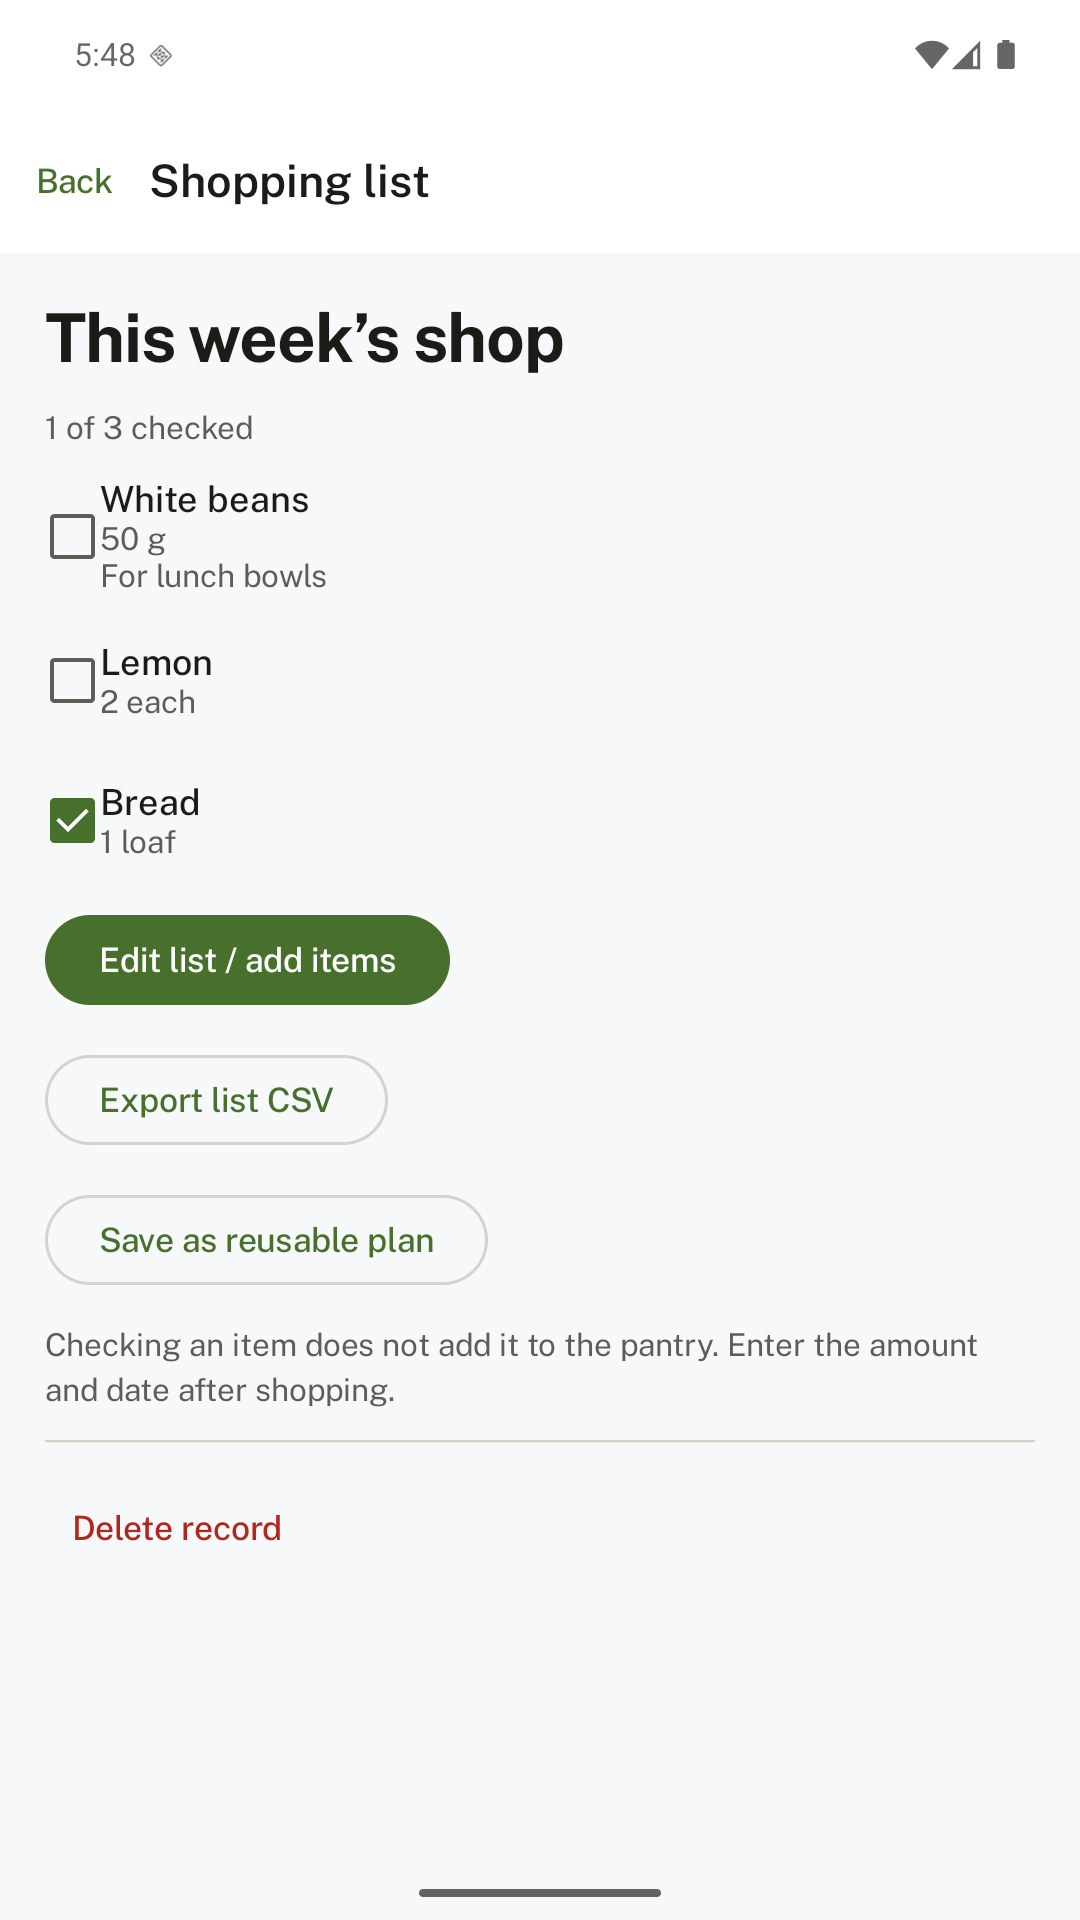
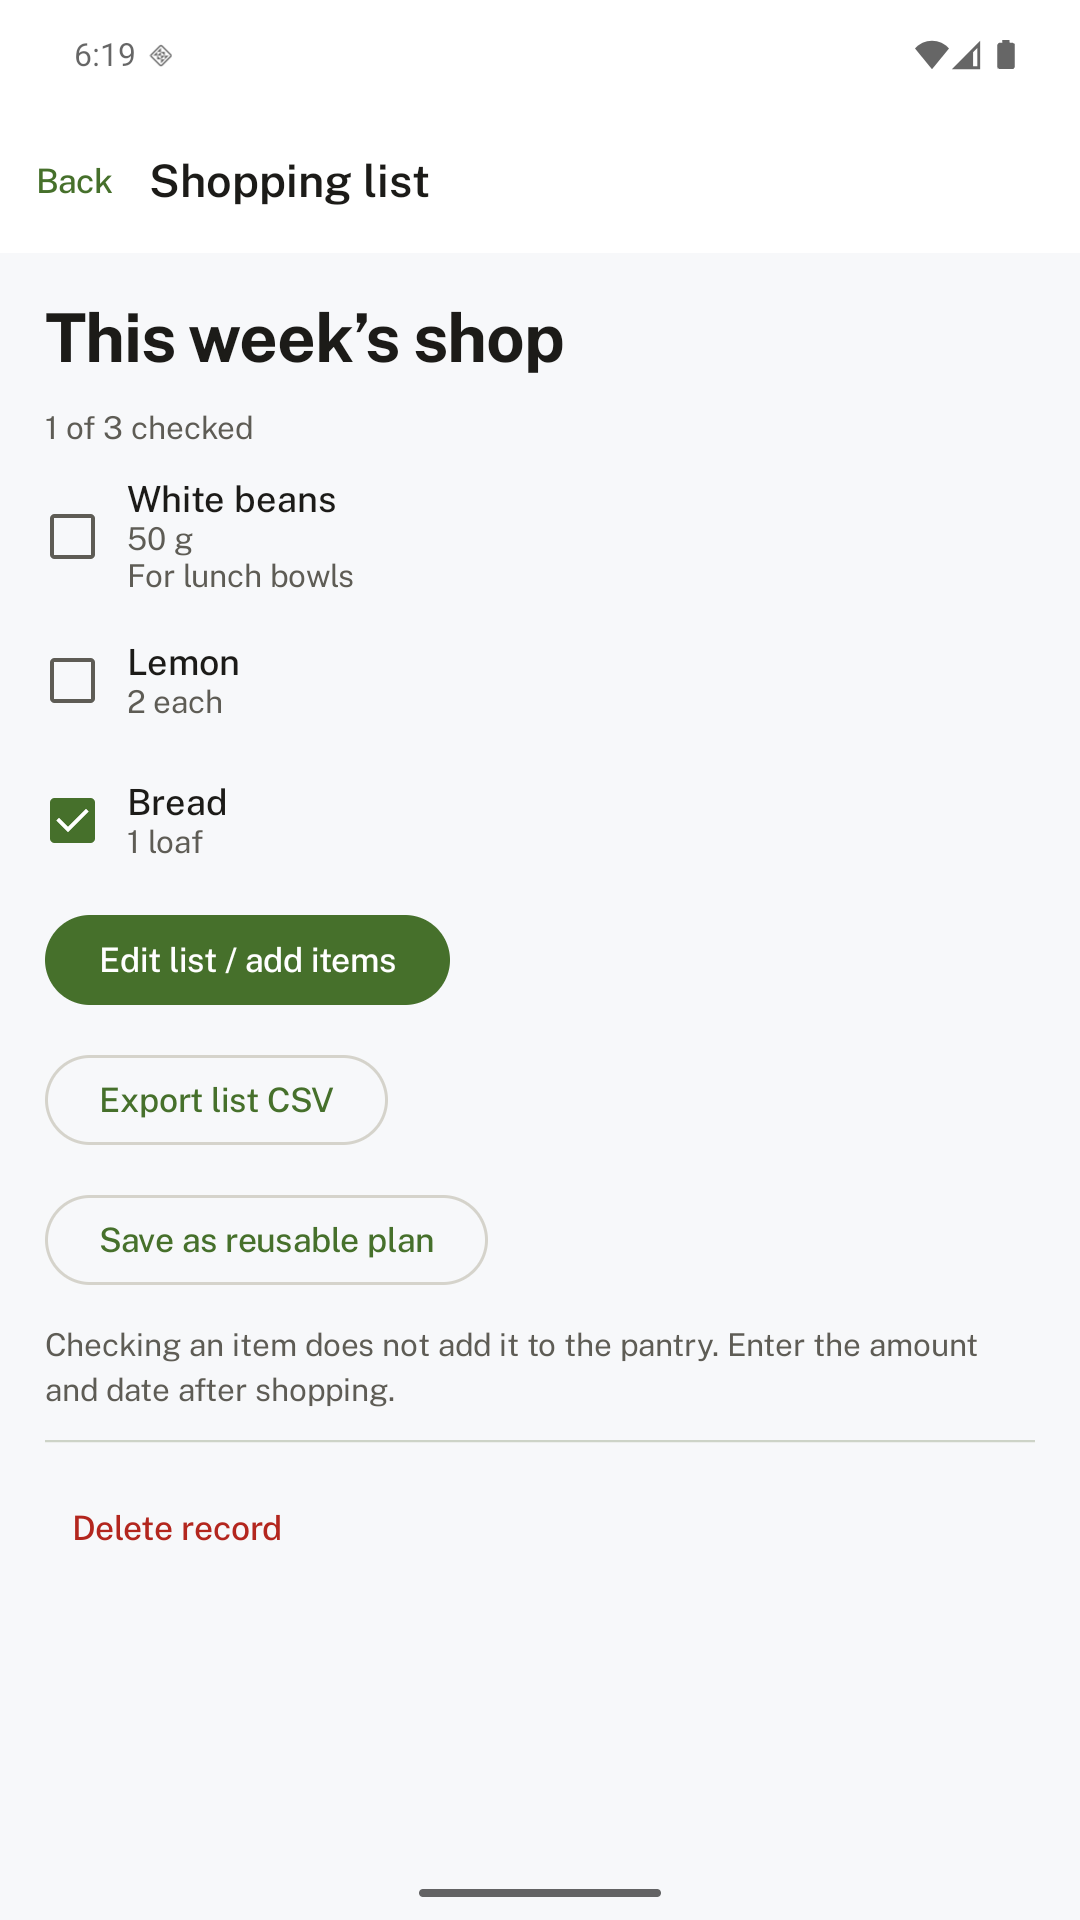
Improve screenshot panel semantics and refresh shopping capture

diff --git a/pantryturn/style.css b/pantryturn/style.css
@@ -3,6 +3,6 @@
 @font-face{font-family:PublicSans;src:url('fonts/brand.ttf') format('truetype');font-weight:400;font-display:swap}@font-face{font-family:PublicSans;src:url('fonts/brand_semibold.ttf') format('truetype');font-weight:600;font-display:swap}@font-face{font-family:PublicSans;src:url('fonts/brand_bold.ttf') format('truetype');font-weight:700;font-display:swap}
 :root{color-scheme:light;--bg:#f7f8f5;--surface:#eef2e9;--text:#20261d;--muted:#56614e;--accent:#426c27;--on-accent:#f8faf5;--line:#ccd5c5;--selected:#deeace}html[data-theme=dark]{color-scheme:dark;--bg:#171d16;--surface:#222c1e;--text:#edf1e9;--muted:#b5c2aa;--accent:#acd38f;--on-accent:#1e3511;--line:#3f4c36;--selected:#34462a}@media(prefers-color-scheme:dark){html:not([data-theme=light]){color-scheme:dark;--bg:#171d16;--surface:#222c1e;--text:#edf1e9;--muted:#b5c2aa;--accent:#acd38f;--on-accent:#1e3511;--line:#3f4c36;--selected:#34462a}}
 *{box-sizing:border-box}html{scroll-padding-top:24px}body{margin:0;background:var(--bg);color:var(--text);font-family:PublicSans,system-ui,sans-serif;line-height:1.6}button,a,input{font:inherit}a{color:var(--accent);text-underline-offset:5px}button{cursor:pointer}button:focus-visible,a:focus-visible,summary:focus-visible{outline:3px solid var(--accent);outline-offset:5px}img{display:block;max-width:100%;height:auto}.wrap{width:min(1280px,calc(100% - 64px));margin-inline:auto}.site-header{min-height:80px;display:flex;align-items:center;gap:30px}.brand{display:inline-flex;align-items:center;gap:11px;color:var(--text);font-size:21px;font-weight:700;letter-spacing:-.6px;text-decoration:none}.brand img{border-radius:9px}.site-header nav{display:flex;gap:28px;margin-left:auto}.site-header nav a{font-size:14px;color:var(--text);text-decoration:none}.theme{background:transparent;border:1px solid var(--line);border-radius:999px;color:var(--text);padding:9px 14px;font-size:12px;white-space:nowrap}.skip{position:absolute;left:20px;top:-100px;padding:12px 20px;z-index:10;background:var(--bg)}.skip:focus{top:12px}
-h1,h2,h3,p,figure{margin:0}h1,h2,h3{font-weight:600;letter-spacing:-1.7px;line-height:1.1}h1{font-size:clamp(38px,4.4vw,61px);max-width:11ch}h2{font-size:clamp(30px,3.4vw,46px);max-width:20ch}h3{font-size:23px;letter-spacing:-.6px}p{color:var(--muted);font-size:17px;max-width:60ch}.hero{display:grid;grid-template-columns:.9fr 1.2fr;gap:56px;align-items:center;padding-block:38px 55px}.hero-copy{display:grid;gap:24px;justify-items:start}.hero-copy p{font-size:18px;max-width:37ch}.hero-photo{width:100%;aspect-ratio:1.38;object-fit:cover;border-radius:16px}.button{display:inline-flex;align-items:center;justify-content:center;min-height:50px;padding:12px 23px;border-radius:999px;background:var(--accent);color:var(--on-accent);font-weight:600;text-decoration:none;white-space:nowrap;transition:transform .2s}.button:hover{transform:translateY(-2px)}.button:active{transform:scale(.98)}section:not(.hero){padding-block:100px}.intro{border-top:1px solid var(--line)}.intro>p{margin-top:24px;font-size:20px;max-width:51ch}.intro-points{display:grid;grid-template-columns:1.1fr 1fr 1fr;gap:48px;margin-top:50px}.intro-points p{font-size:15px}.intro-points strong{display:block;color:var(--text);margin-bottom:10px}.walkthrough{display:grid;grid-template-columns:1fr 1fr;gap:100px;align-items:start}.walkthrough-copy>p,.planning>div>p:not(.eyebrow),.included>p{margin-top:24px}.screen-tabs{display:grid;margin-top:32px;gap:4px}.screen-tabs button{background:transparent;color:var(--text);border:0;border-left:3px solid transparent;text-align:left;padding:20px 24px;transition:background .2s}.screen-tabs button[aria-selected=true]{border-left-color:var(--accent);background:var(--surface)}.screen-tabs strong{display:block;font-size:19px;font-weight:600;margin-bottom:6px}.screen-tabs span{display:block;color:var(--muted);max-width:32ch;font-size:15px}.screen-stage{background:var(--surface);border-radius:16px;padding:32px;display:grid;justify-items:center;gap:24px}.screen-stage img{width:280px;border:1px solid var(--line);border-radius:16px;aspect-ratio:9/16}.screen-stage figcaption,.planning figcaption{font-size:12px;color:var(--muted);text-align:center}.planning{display:grid;grid-template-columns:.9fr 1.15fr;gap:80px;align-items:center}.eyebrow{font-size:12px;text-transform:uppercase;letter-spacing:1px;color:var(--accent);margin-bottom:20px}.small{font-size:13px!important;line-height:1.65}.planning-pair{display:grid;grid-template-columns:1fr 1fr;gap:24px}.planning-pair figure:last-child{margin-top:74px}.planning-pair img{border-radius:16px;border:1px solid var(--line);aspect-ratio:9/16}.planning-pair figcaption{margin-top:16px}.included{border-top:1px solid var(--line)}.price-columns{display:grid;grid-template-columns:1fr 1fr;gap:80px;margin-top:50px}.price-columns article{padding:32px 0}.price-columns .unlock{border-left:1px solid var(--line);padding-left:70px}.price{font-size:48px;letter-spacing:-2px;color:var(--accent);line-height:1.2;margin-top:20px}.price span{font-size:15px;letter-spacing:0;color:var(--muted)}ul{padding-left:20px;color:var(--muted);font-size:16px;margin:28px 0}li{padding:5px 0}.currencies{display:flex;gap:10px;margin-top:16px}.currencies button{min-height:40px;min-width:52px;background:transparent;border:1px solid var(--line);border-radius:999px;color:var(--text);padding:6px 12px;font-size:13px}.currencies button[aria-pressed=true]{background:var(--selected);border-color:var(--accent)}.release-status{display:inline-block;margin-top:20px!important;background:var(--surface);padding:14px 22px;border-radius:12px;color:var(--text)}.questions{display:grid;grid-template-columns:.8fr 1.2fr;column-gap:80px}.questions h2{grid-row:span 4}.questions details{border-bottom:1px solid var(--line);padding:20px 0}.questions summary{font-size:18px;font-weight:600;cursor:pointer}.questions details p{font-size:15px;margin-top:18px}footer{border-top:1px solid var(--line);display:flex;align-items:center;gap:28px;flex-wrap:wrap;padding-block:40px 50px}footer p{font-size:12px}footer>div{display:flex;gap:24px;margin-left:auto}footer a{font-size:13px}
+h1,h2,h3,p,figure{margin:0}h1,h2,h3{font-weight:600;letter-spacing:-1.7px;line-height:1.1}h1{font-size:clamp(38px,4.4vw,61px);max-width:11ch}h2{font-size:clamp(30px,3.4vw,46px);max-width:20ch}h3{font-size:23px;letter-spacing:-.6px}p{color:var(--muted);font-size:17px;max-width:60ch}.hero{display:grid;grid-template-columns:.9fr 1.2fr;gap:56px;align-items:center;padding-block:38px 55px}.hero-copy{display:grid;gap:24px;justify-items:start}.hero-copy p{font-size:18px;max-width:37ch}.hero-photo{width:100%;aspect-ratio:1.38;object-fit:cover;border-radius:16px}.button{display:inline-flex;align-items:center;justify-content:center;min-height:50px;padding:12px 23px;border-radius:999px;background:var(--accent);color:var(--on-accent);font-weight:600;text-decoration:none;white-space:nowrap;transition:transform .2s}.button:hover{transform:translateY(-2px)}.button:active{transform:scale(.98)}section:not(.hero){padding-block:100px}.intro{border-top:1px solid var(--line)}.intro>p{margin-top:24px;font-size:20px;max-width:51ch}.intro-points{display:grid;grid-template-columns:1.1fr 1fr 1fr;gap:48px;margin-top:50px}.intro-points p{font-size:15px}.intro-points strong{display:block;color:var(--text);margin-bottom:10px}.walkthrough{display:grid;grid-template-columns:1fr 1fr;gap:100px;align-items:start}.walkthrough-copy>p,.planning>div>p:not(.eyebrow),.included>p{margin-top:24px}.screen-tabs{display:grid;margin-top:32px;gap:4px}.screen-tabs button{background:transparent;color:var(--text);border:0;border-left:3px solid transparent;text-align:left;padding:20px 24px;transition:background .2s}.screen-tabs button[aria-selected=true]{border-left-color:var(--accent);background:var(--surface)}.screen-tabs strong{display:block;font-size:19px;font-weight:600;margin-bottom:6px}.screen-tabs span{display:block;color:var(--muted);max-width:32ch;font-size:15px}.screen-stage{background:var(--surface);border-radius:16px;padding:32px;display:grid;justify-items:center;gap:24px}.screen-stage img{width:280px;border:1px solid var(--line);border-radius:16px;aspect-ratio:9/16}.screen-stage .screen-caption,.planning figcaption{font-size:12px;color:var(--muted);text-align:center}.planning{display:grid;grid-template-columns:.9fr 1.15fr;gap:80px;align-items:center}.eyebrow{font-size:12px;text-transform:uppercase;letter-spacing:1px;color:var(--accent);margin-bottom:20px}.small{font-size:13px!important;line-height:1.65}.planning-pair{display:grid;grid-template-columns:1fr 1fr;gap:24px}.planning-pair figure:last-child{margin-top:74px}.planning-pair img{border-radius:16px;border:1px solid var(--line);aspect-ratio:9/16}.planning-pair figcaption{margin-top:16px}.included{border-top:1px solid var(--line)}.price-columns{display:grid;grid-template-columns:1fr 1fr;gap:80px;margin-top:50px}.price-columns article{padding:32px 0}.price-columns .unlock{border-left:1px solid var(--line);padding-left:70px}.price{font-size:48px;letter-spacing:-2px;color:var(--accent);line-height:1.2;margin-top:20px}.price span{font-size:15px;letter-spacing:0;color:var(--muted)}ul{padding-left:20px;color:var(--muted);font-size:16px;margin:28px 0}li{padding:5px 0}.currencies{display:flex;gap:10px;margin-top:16px}.currencies button{min-height:40px;min-width:52px;background:transparent;border:1px solid var(--line);border-radius:999px;color:var(--text);padding:6px 12px;font-size:13px}.currencies button[aria-pressed=true]{background:var(--selected);border-color:var(--accent)}.release-status{display:inline-block;margin-top:20px!important;background:var(--surface);padding:14px 22px;border-radius:12px;color:var(--text)}.questions{display:grid;grid-template-columns:.8fr 1.2fr;column-gap:80px}.questions h2{grid-row:span 4}.questions details{border-bottom:1px solid var(--line);padding:20px 0}.questions summary{font-size:18px;font-weight:600;cursor:pointer}.questions details p{font-size:15px;margin-top:18px}footer{border-top:1px solid var(--line);display:flex;align-items:center;gap:28px;flex-wrap:wrap;padding-block:40px 50px}footer p{font-size:12px}footer>div{display:flex;gap:24px;margin-left:auto}footer a{font-size:13px}
 @media(min-width:1400px){.hero{padding-top:56px}.hero-photo{max-height:480px}}@media(max-width:1000px){.wrap{width:calc(100% - 48px)}.site-header{gap:20px}.site-header nav{gap:18px}.hero{gap:30px}h1{font-size:46px}.walkthrough,.planning{gap:48px}.price-columns{gap:40px}.price-columns .unlock{padding-left:40px}.intro-points{gap:26px}.questions{column-gap:40px}}@media(max-width:767px){.wrap{width:calc(100% - 40px)}.site-header{flex-wrap:wrap;gap:14px;padding-block:16px}.site-header .brand{font-size:20px}.theme{margin-left:auto}.site-header nav{order:3;width:100%;margin:0;justify-content:space-between;font-size:12px;gap:12px}.hero{display:flex;flex-direction:column;align-items:stretch;padding:34px 0 48px;gap:36px}.hero h1{font-size:clamp(36px,9vw,48px);max-width:13ch}.hero-copy{gap:20px}.hero-copy p{font-size:17px}.hero-photo{aspect-ratio:1.5}.intro-points,.walkthrough,.planning,.price-columns,.questions{grid-template-columns:1fr}.intro-points{gap:24px;margin-top:30px}.intro-points p{max-width:45ch}section:not(.hero){padding-block:64px}.intro>p{font-size:18px}.walkthrough{gap:28px}.screen-tabs button{padding:16px 20px}.screen-stage{padding:24px}.screen-stage img{width:260px}.planning{gap:38px}.planning-pair{gap:16px}.planning-pair figure:last-child{margin-top:40px}.price-columns{gap:20px;margin-top:24px}.price-columns article{padding:20px 0}.price-columns .unlock{border-left:0;border-top:1px solid var(--line);padding:35px 0 0}.price{font-size:42px}.questions h2{grid-row:auto;margin-bottom:24px}.questions summary{font-size:16px}footer{gap:20px;align-items:flex-start;flex-direction:column}footer>div{margin:0;gap:18px;flex-wrap:wrap}}
 @media(prefers-reduced-motion:no-preference){html{scroll-behavior:smooth}.hero-copy{animation:enter .65s both}.hero-photo{animation:enter .8s .1s both}.motion .reveal{opacity:0;transform:translateY(16px);transition:opacity .55s,transform .55s}.motion .reveal.visible{opacity:1;transform:none}@keyframes enter{from{opacity:0;transform:translateY(12px)}to{opacity:1;transform:none}}}@media(prefers-reduced-motion:reduce){*{animation:none!important;transition:none!important;scroll-behavior:auto!important}}

diff --git a/pantryturn/index.html b/pantryturn/index.html
@@ -15,7 +15,7 @@
 <main id="main">
 <section class="hero wrap"><div class="hero-copy"><h1>Make room for what’s next.</h1><p>Keep food, recipes and shopping lists together. Add lifetime meal planning when you want it.</p><a class="button" href="#included">See what’s included</a></div><img class="hero-photo" src="images/pantry-hero.webp" width="1536" height="1024" alt="Glass jars of lentils, oats and beans beside carrots on a kitchen counter" fetchpriority="high"></section>
 <section class="intro wrap reveal"><h2>A useful view of your kitchen.</h2><p>Remember what you have, the amount left and where you put it. Your own recipes turn those records into a plan.</p><div class="intro-points"><p><strong>Everything stays with you.</strong> No PantryTurn account, cloud service or ads.</p><p><strong>Your dates, clearly recorded.</strong> Optional reminders use the dates you enter.</p><p><strong>One payment, when you want it.</strong> Everyday pantry tools remain free.</p></div></section>
-<section id="inside" class="walkthrough wrap reveal"><div class="walkthrough-copy"><h2>From the shelf to the shopping list.</h2><p>Explore working screens from PantryTurn, using illustrative records.</p><div class="screen-tabs" role="tablist" aria-label="App screens" aria-orientation="vertical"><button role="tab" aria-selected="true" aria-controls="screen-panel" id="tab-pantry" data-screen="01-pantry.png" data-alt="PantryTurn pantry records, quantities, storage locations and entered dates"><strong>See your pantry</strong><span>Search food, locations and locally remembered barcodes.</span></button><button role="tab" aria-selected="false" aria-controls="screen-panel" id="tab-recipe" tabindex="-1" data-screen="02-recipe.png" data-alt="A saved recipe with ingredient amounts and portion scaling"><strong>Keep your recipes</strong><span>Write the ingredients and instructions you actually use.</span></button><button role="tab" aria-selected="false" aria-controls="screen-panel" id="tab-shopping" tabindex="-1" data-screen="03-shopping.png" data-alt="A shopping list with quantities and checked items"><strong>Shop with a list</strong><span>Add recipe ingredients, then check items off as you go.</span></button><button role="tab" aria-selected="false" aria-controls="screen-panel" id="tab-week" tabindex="-1" data-screen="04-week.png" data-alt="A weekly meal plan with saved recipes and serving amounts"><strong>Plan the week</strong><span>The lifetime unlock connects meals to pantry quantities.</span></button></div></div><figure id="screen-panel" role="tabpanel" aria-labelledby="tab-pantry" class="screen-stage"><img id="app-screen" src="images/01-pantry.png" width="1080" height="1920" alt="PantryTurn pantry records, quantities, storage locations and entered dates" loading="lazy"><figcaption>Actual app screen. Example records.</figcaption></figure></section>
+<section id="inside" class="walkthrough wrap reveal"><div class="walkthrough-copy"><h2>From the shelf to the shopping list.</h2><p>Explore working screens from PantryTurn, using illustrative records.</p><div class="screen-tabs" role="tablist" aria-label="App screens" aria-orientation="vertical"><button role="tab" aria-selected="true" aria-controls="screen-panel" id="tab-pantry" data-screen="01-pantry.png" data-alt="PantryTurn pantry records, quantities, storage locations and entered dates"><strong>See your pantry</strong><span>Search food, locations and locally remembered barcodes.</span></button><button role="tab" aria-selected="false" aria-controls="screen-panel" id="tab-recipe" tabindex="-1" data-screen="02-recipe.png" data-alt="A saved recipe with ingredient amounts and portion scaling"><strong>Keep your recipes</strong><span>Write the ingredients and instructions you actually use.</span></button><button role="tab" aria-selected="false" aria-controls="screen-panel" id="tab-shopping" tabindex="-1" data-screen="03-shopping.png" data-alt="A shopping list with quantities and checked items"><strong>Shop with a list</strong><span>Add recipe ingredients, then check items off as you go.</span></button><button role="tab" aria-selected="false" aria-controls="screen-panel" id="tab-week" tabindex="-1" data-screen="04-week.png" data-alt="A weekly meal plan with saved recipes and serving amounts"><strong>Plan the week</strong><span>The lifetime unlock connects meals to pantry quantities.</span></button></div></div><div id="screen-panel" role="tabpanel" aria-labelledby="tab-pantry" class="screen-stage"><img id="app-screen" src="images/01-pantry.png" width="1080" height="1920" alt="PantryTurn pantry records, quantities, storage locations and entered dates" loading="lazy"><p class="screen-caption">Actual app screen. Example records.</p></div></section>
 <section class="planning wrap reveal"><div><p class="eyebrow">With the lifetime unlock</p><h2>Work with what’s already there.</h2><p>Match your recipes to pantry records, scale portions and review missing quantities before adding them to a shopping list.</p><p class="small">Matching uses exact ingredient names and compatible units. Earlier eligible dates come first; past entered dates are excluded. Dates are records, not food-safety assessments.</p></div><div class="planning-pair"><figure><img src="images/05-plan.png" width="1080" height="1920" alt="Reusable shopping plan with ingredient quantities" loading="lazy"><figcaption>A regular shop, ready to reuse.</figcaption></figure><figure><img src="images/06-dark.png" width="1080" height="1920" alt="PantryTurn in its dark theme" loading="lazy"><figcaption>Comfortable in light or dark.</figcaption></figure></div></section>
 <section id="included" class="included wrap reveal"><h2>Start free. Plan for a lifetime.</h2><p>There is one optional unlock. Your records and basic data tools stay accessible.</p><div class="price-columns"><article><h3>Everyday pantry</h3><div class="price">Free</div><ul><li>Pantry records and local barcode memories</li><li>Your recipes and shopping lists</li><li>Optional entered-date reminders</li><li>CSV and text exports</li><li>Complete archive backup and restore</li></ul></article><article class="unlock"><h3>Lifetime planning</h3><div class="price" id="price">$4.99 <span>once</span></div><div class="currencies" role="group" aria-label="Planned launch currency"><button type="button" aria-pressed="true" data-price="$4.99">US</button><button type="button" aria-pressed="false" data-price="£3.99">UK</button><button type="button" aria-pressed="false" data-price="₹199">India</button></div><ul><li>Weekly meal planning</li><li>Expiry-first ingredient matching</li><li>Batch portion scaling</li><li>Reusable shopping plans</li></ul><p class="small">Planned launch price. Google Play displays the localized price before purchase. Buying and restoring need a Play connection.</p></article></div><p id="release-status" class="release-status">Google Play release in preparation.</p></section>
 <section class="questions wrap reveal"><h2>A few things to know.</h2><details><summary>Does a barcode fill in the product automatically?</summary><p>After you name and save a barcode once, future scans recall its name, unit and location on this device. New products need manual entry. A previous date is never copied.</p></details><details><summary>How does ingredient matching work?</summary><p>It compares your recipe ingredients with your pantry records using normalized names and compatible units. It converts g/kg/mg, ml/l and each aliases. Custom units match the same unit; cups, cans and weight are not guessed. Weekly plans do not count the same stock twice.</p></details><details><summary>Are these food-safety dates?</summary><p>No. You enter the dates. PantryTurn does not estimate shelf life or establish whether food is safe to eat. Reminders simply bring your records back to your attention.</p></details><details><summary>Can I take my data with me?</summary><p>Yes. Basic export, complete backup and restore remain free. Archives contain your saved records and local barcode memories, with no purchase ownership or settings. They are not encrypted, so choose a safe storage location.</p></details></section>
